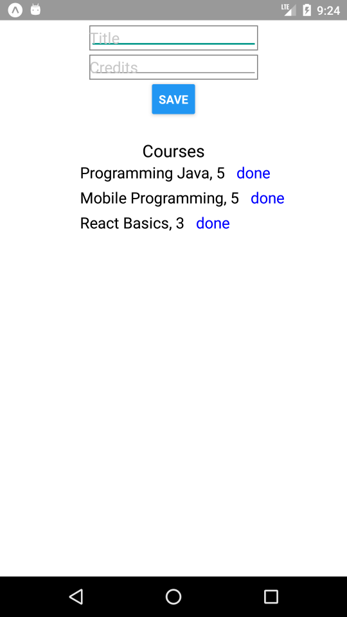
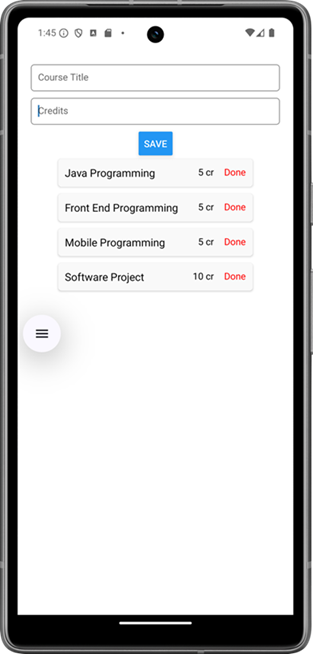
Drizzle studio added

Changed region(s): [[0.0, 0.0, 1.0, 1.0]]

diff --git a/docs/DataPersistence/sqlite.md b/docs/DataPersistence/sqlite.md
@@ -53,7 +53,7 @@ const initialize = async () => {
 }
 ```
 :::note
-  Because we use the `async`-`await`syntax to handle the asynhronous calls we need to use exception handling to handle possible database errors. 
+  Because we use the `async`-`await`syntax to handle the asynhronous calls we need to use `try`-`catch` `exception handling to handle possible database errors. 
 :::
 
 The application logic would require that we retrieve the course list from the database and render it for the user at startup. The function to do that will be implemented later. 
@@ -113,17 +113,16 @@ In the `FlatList` component, we show the title and credits of the courses. For d
 <FlatList
   keyExtractor={item => item.id.toString()}
   renderItem={({ item }) =>
-    <View style={styles.itemcontainer}>
+    <View>
       <Text>{item.title}</Text>
       <Text>{item.credits} </Text>
-      <Text style={{ color: '#0000ff' }} onPress={() => deleteItem(item.id)}>done</Text>
-    </View>}
+      <Text style={{ color: '#ff0000' }} onPress={() => deleteItem(item.id)}>Done</Text>
+    </View>
+  }
   data={courses}
 />
 ```
-
 The `deleteItem` function deletes item from the course table and updates the course list after the deletion.
-
 ```js
 const deleteItem = async (id) => {
     try {
